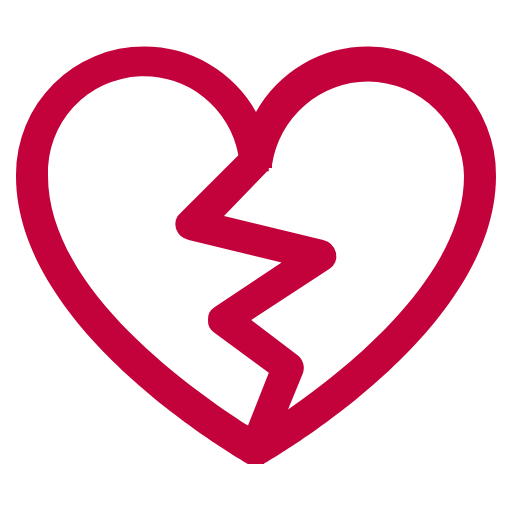
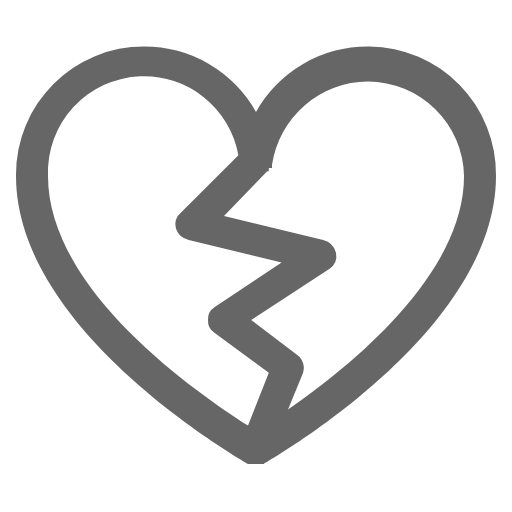
Tela fallback OK

Changed region(s): [[0.0312, 0.0938, 0.9688, 0.9062]]

diff --git a/doapego-react/src/styles/buttons.css b/doapego-react/src/styles/buttons.css
@@ -96,6 +96,7 @@
   /* Adiciona a borda invisível no estado normal */
 }
 
+
 .btn-hidden-unfill {
   color: var(--color-white);
   border: .12rem solid var(--color-white);
@@ -105,19 +106,6 @@
   border-radius: .5rem;
 }
 
-/* 
-.btn-hidden-fill:hover {
-  background-color: #e0f2f1;
-  color: var(--color-primary);
-}
-
-.btn-hidden-fill:active,
-.btn-hidden-fil:focus-visible {
-  background-color: #f1fafa !important;
-  color: var(--color-primary) !important;
-}
-*/
-
 .btn-hidden-fill:hover {
   color: var(--color-white);
   border: .12rem solid var(--color-white);
@@ -129,7 +117,6 @@
   background-color: #f1fafa !important;
   color: var(--color-primary) !important;
   border: .12rem solid transparent;
-  /* Adiciona a borda invisível no estado normal */
 }
 
 
@@ -137,7 +124,6 @@
   background-color: var(--color-white);
   color: var(--color-primary) !important;
   border: .12rem solid transparent;
-  /* Adiciona a borda invisível no estado normal */
 }
 
 .btn-hidden-unfill:active,
@@ -145,5 +131,24 @@
   background-color: #f1fafa !important;
   color: var(--color-primary) !important;
   border: .12rem solid transparent;
-  /* Adiciona a borda invisível no estado normal */
+}
+
+.btn-custom-notfound {
+  background-color: var(--color-gray-medium);
+  color: var(--color-white);
+  text-decoration: none;
+  font-weight: 400;
+  border-radius: .5rem;
+  border: .12rem solid transparent;
+}
+
+.btn-custom-notfound:hover {
+  background-color: var(--color-gray-dark);
+  color: var(--color-white);
+}
+
+.btn-custom-notfound:active,
+.btn-custom-notfound:focus-visible {
+  background-color: var(--color-gray-light) !important;
+  color: var(--color-white) !important;
 }

diff --git a/doapego-react/src/components/NotAuthorized.jsx b/doapego-react/src/components/NotAuthorized.jsx
@@ -9,9 +9,9 @@ export default function NotAuthorized() {
       <div className="container my-5">
         <div className="d-grid justify-content-center justify-items-center gap-2" style={{ justifyItems: "center" }}>
           <img src={brokenHeart} style={{ width: "104px", height: "104px" }} alt="coração partido" />
-          <h3>Desculpe! Tela não encontrada.</h3>
+          <h3 className="text-muted fw-bold">Desculpe! Tela não encontrada.</h3>
           <p className="fs-5 text-muted">Se o problema persistir, entre em contato conosco.</p>
-          <Link to=""><button className="mt-3 btn btn-custom-filled">
+          <Link to="/"><button className="mt-3 btn btn-custom-notfound">
             Voltar ao início
           </button></Link>
         </div>

diff --git a/doapego-react/src/styles/info.css b/doapego-react/src/styles/info.css
@@ -97,3 +97,7 @@
   font-weight: 600;
   line-height: 1.4;
 }
+
+.oitexto {
+  font-weight: 600;
+}
